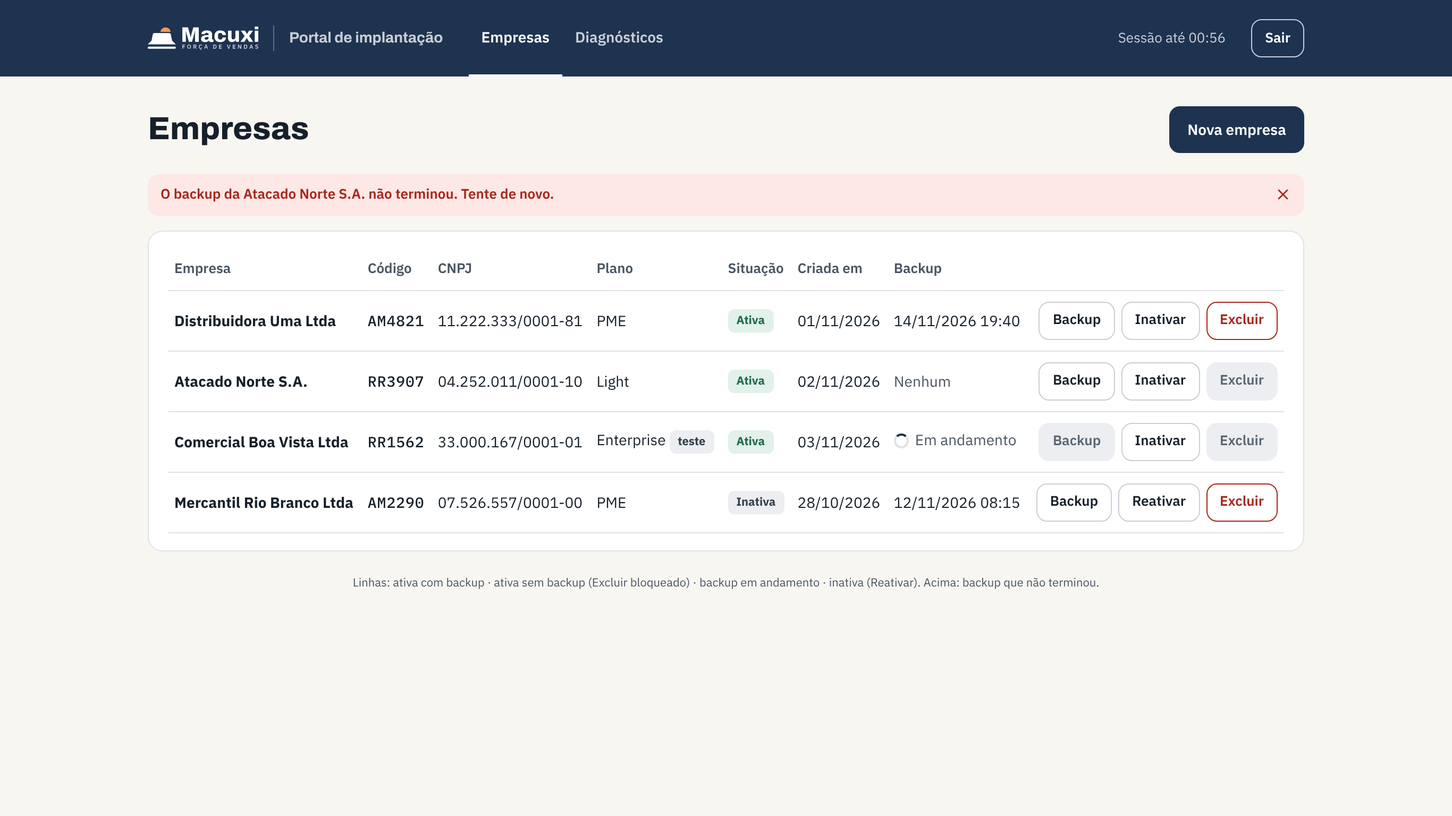
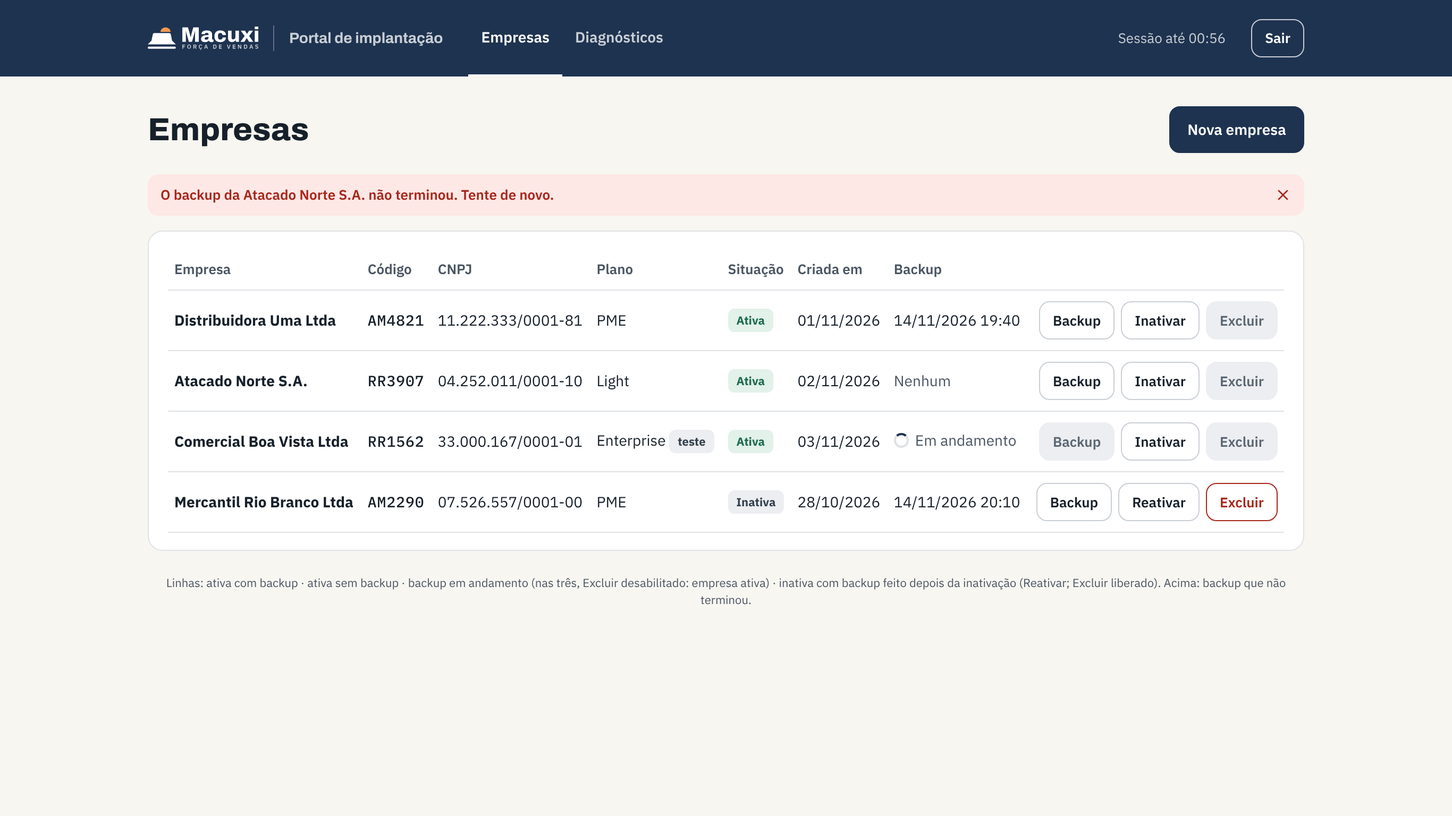
designer-ux — Empresas do portal: decisões da ADR 0052 na spec e kit do Excluir
Spec portal-config-enxuto §15 aprovada (R-20261114-202000-alexandre, 14/11/2026):
§15.5 cita a ADR 0052 em vez das premissas; Excluir desabilitado na empresa
ativa e liberado por acoes.exclusao_bloqueada; diálogo de Excluir com o campo
"Sua senha" e as mensagens de recusa; testID empresa-excluir.senha. PNG 02b e
02c regerados (02c em 1366 x 912).

packages/ui (web): Button variant="danger-secondary"; ConfirmarDigitando e
codigoConfere (confirmar.tsx, com testes); hover do danger em danger/90.

Agente: designer-ux

Claude-Session: https://claude.ai/code/session_0157qAhjwgDn1HL5o6yDAFZQ

diff --git a/packages/ui/src/web/confirmar.test.ts b/packages/ui/src/web/confirmar.test.ts
@@ -1,0 +1,99 @@
+import { describe, expect, it } from 'vitest';
+import { ConfirmarDigitando, codigoConfere, rotuloConfirmarDigitando } from './confirmar';
+import { Button } from './ui';
+
+// sem react-dom: os componentes (sem hooks) são chamados como função e a árvore é percorrida
+type No = { type: unknown; props: Record<string, unknown> & { children?: unknown } };
+
+function nos(x: unknown): No[] {
+  if (Array.isArray(x)) return x.flatMap(nos);
+  if (!x || typeof x !== 'object' || !('props' in x)) return [];
+  const n = x as No;
+  return [n, ...nos(n.props.children)];
+}
+
+function texto(x: unknown): string {
+  if (typeof x === 'string' || typeof x === 'number') return String(x);
+  if (Array.isArray(x)) return x.map(texto).join('');
+  if (!x || typeof x !== 'object' || !('props' in x)) return '';
+  return texto((x as No).props.children);
+}
+
+const classes = (x: unknown) => String((x as No).props.className).split(/\s+/);
+
+describe('codigoConfere (portal-config-enxuto §15.2)', () => {
+  it('libera só quando o digitado bate com o código', () => {
+    expect(codigoConfere('AM4821', 'AM4821')).toBe(true);
+    expect(codigoConfere('AM482', 'AM4821')).toBe(false);
+    expect(codigoConfere('AM48210', 'AM4821')).toBe(false);
+    expect(codigoConfere('RR4821', 'AM4821')).toBe(false);
+  });
+
+  it('sem diferença de maiúsculas e de espaços nas pontas', () => {
+    expect(codigoConfere('am4821', 'AM4821')).toBe(true);
+    expect(codigoConfere('  Am4821 ', 'AM4821')).toBe(true);
+    expect(codigoConfere('AM 4821', 'AM4821')).toBe(false);
+  });
+
+  it('vazio nunca confere, nem com código esperado vazio', () => {
+    expect(codigoConfere('', 'AM4821')).toBe(false);
+    expect(codigoConfere('   ', '')).toBe(false);
+    expect(codigoConfere('', '')).toBe(false);
+  });
+});
+
+describe('ConfirmarDigitando (web)', () => {
+  const arvore = (valor: string) => nos(ConfirmarDigitando({ id: 'excluir-codigo', codigo: 'AM4821', valor, onChange: () => undefined, testID: 'empresa-excluir.codigo' }));
+
+  it('rótulo "Digite {código} para confirmar", ligado ao campo', () => {
+    const a = arvore('');
+    const label = a.find((n) => n.type === 'label');
+    expect(texto(label)).toBe('Digite AM4821 para confirmar');
+    expect(rotuloConfirmarDigitando('AM4821')).toBe('Digite AM4821 para confirmar');
+    expect(label?.props.htmlFor).toBe('excluir-codigo');
+    const campo = a.find((n) => n.type === 'input');
+    expect(campo?.props.id).toBe('excluir-codigo');
+    expect(campo?.props['data-testid']).toBe('empresa-excluir.codigo');
+  });
+
+  it('campo sem corretor, sem preenchimento automático, com foco ao abrir e em fonte mono', () => {
+    const campo = arvore('').find((n) => n.type === 'input');
+    expect(campo?.props.autoComplete).toBe('off');
+    expect(campo?.props.spellCheck).toBe(false);
+    expect(campo?.props.autoFocus).toBe(true);
+    expect(classes(campo)).toContain('font-mono');
+    // o código no rótulo também em mono
+    expect(arvore('').some((n) => n.type === 'span' && texto(n) === 'AM4821' && classes(n).includes('font-mono'))).toBe(true);
+  });
+
+  it('o estado do campo diz se confere (a tela usa codigoConfere para o botão)', () => {
+    expect(arvore('').find((n) => n.type === 'input')?.props['data-confere']).toBe('nao');
+    expect(arvore('am4821').find((n) => n.type === 'input')?.props['data-confere']).toBe('sim');
+    expect(arvore('am4821').find((n) => n.type === 'input')?.props.value).toBe('am4821');
+  });
+
+  it('código errado não mostra mensagem de erro (só o botão fica desabilitado)', () => {
+    const a = arvore('XX0000');
+    expect(a.some((n) => n.props.role === 'alert')).toBe(false);
+    expect(a.find((n) => n.type === 'input')?.props['aria-invalid']).toBeUndefined();
+  });
+});
+
+describe('Button variant="danger-secondary" (portal-config-enxuto §15.4)', () => {
+  it('contorno e texto em danger, fundo surface; hover em danger-soft com texto e borda danger', () => {
+    const c = classes(Button({ variant: 'danger-secondary', children: 'Excluir' }));
+    expect(c).toEqual(expect.arrayContaining(['border', 'border-danger', 'bg-surface', 'text-danger', 'hover:bg-danger-soft', 'hover:text-danger', 'hover:border-danger']));
+    expect(c).not.toContain('bg-danger');
+  });
+
+  it('desabilitado como o secundário: borda e texto apagados, sem hover vermelho', () => {
+    const c = classes(Button({ variant: 'danger-secondary', disabled: true, children: 'Excluir' }));
+    expect(c).toEqual(expect.arrayContaining(['disabled:border-field', 'disabled:text-disabled', 'disabled:hover:bg-surface']));
+  });
+
+  it('o danger cheio usa o token no hover (sem cor solta)', () => {
+    const c = classes(Button({ variant: 'danger', children: 'Excluir empresa' }));
+    expect(c).toContain('hover:bg-danger/90');
+    expect(c.some((x) => x.includes('#'))).toBe(false);
+  });
+});

diff --git a/docs/design/telas/portal-config-enxuto/depois-02b-empresas-acoes.html b/docs/design/telas/portal-config-enxuto/depois-02b-empresas-acoes.html
@@ -1,8 +1,8 @@
 <!doctype html><html lang="pt-BR"><head><meta charset="utf-8"><title>02b-empresas-acoes</title><link rel="stylesheet" href="portal.css"><style>body{width:1366px;min-height:768px}</style></head><body><div class="topo"><div class="in"><div class="marca"><img src="../../../marca/ativos/2026-11-12-v1/macuxi-logo-negativo-azul-noite.svg" alt="Macuxi Força de Vendas" width="104"><small>Portal de implantação</small></div><nav class="menu"><a class="ativo">Empresas</a><a class="">Diagnósticos</a></nav><span class="sessao">Sessão até 00:56</span><span class="btn s">Sair</span></div></div><main><div class="cabeca"><h1>Empresas</h1><span class="btn p">Nova empresa</span></div>
 <div class="aviso erro" style="margin-bottom:14px" role="alert"><span>O backup da Atacado Norte S.A. não terminou. Tente de novo.</span><svg width="16" height="16" viewBox="0 0 24 24" fill="none" stroke="currentColor" stroke-width="2" stroke-linecap="round" aria-label="Fechar" role="img"><path d="M6 6l12 12M18 6 6 18"/></svg></div>
 <div class="cartao"><table class="lista-acoes"><tr><th>Empresa</th><th>Código</th><th>CNPJ</th><th>Plano</th><th>Situação</th><th>Criada em</th><th>Backup</th><th><span style="position:absolute;left:-9999px">Ações</span></th></tr>
-<tr><td><b>Distribuidora Uma Ltda</b></td><td class="cod">AM4821</td><td class="cnpj">11.222.333/0001-81</td><td>PME</td><td><span class="selo">Ativa</span></td><td>01/11/2026</td><td><span class="bkp">14/11/2026 19:40</span></td><td class="col-acoes"><div class="acoes"><span class="btn s">Backup</span><span class="btn s">Inativar</span><span class="btn s perigo">Excluir</span></div></td></tr>
+<tr><td><b>Distribuidora Uma Ltda</b></td><td class="cod">AM4821</td><td class="cnpj">11.222.333/0001-81</td><td>PME</td><td><span class="selo">Ativa</span></td><td>01/11/2026</td><td><span class="bkp">14/11/2026 19:40</span></td><td class="col-acoes"><div class="acoes"><span class="btn s">Backup</span><span class="btn s">Inativar</span><span class="btn s off" aria-disabled="true">Excluir</span></div></td></tr>
 <tr><td><b>Atacado Norte S.A.</b></td><td class="cod">RR3907</td><td class="cnpj">04.252.011/0001-10</td><td>Light</td><td><span class="selo">Ativa</span></td><td>02/11/2026</td><td><span class="bkp nenhum">Nenhum</span></td><td class="col-acoes"><div class="acoes"><span class="btn s">Backup</span><span class="btn s">Inativar</span><span class="btn s off" aria-disabled="true">Excluir</span></div></td></tr>
 <tr><td><b>Comercial Boa Vista Ltda</b></td><td class="cod">RR1562</td><td class="cnpj">33.000.167/0001-01</td><td>Enterprise <span class="selo n">teste</span></td><td><span class="selo">Ativa</span></td><td>03/11/2026</td><td><span class="bkp andamento"><span class="giro"></span>Em andamento</span></td><td class="col-acoes"><div class="acoes"><span class="btn s off" aria-disabled="true">Backup</span><span class="btn s">Inativar</span><span class="btn s off" aria-disabled="true">Excluir</span></div></td></tr>
-<tr><td><b>Mercantil Rio Branco Ltda</b></td><td class="cod">AM2290</td><td class="cnpj">07.526.557/0001-00</td><td>PME</td><td><span class="selo n">Inativa</span></td><td>28/10/2026</td><td><span class="bkp">12/11/2026 08:15</span></td><td class="col-acoes"><div class="acoes"><span class="btn s">Backup</span><span class="btn s">Reativar</span><span class="btn s perigo">Excluir</span></div></td></tr>
-</table></div><div class="legenda-sim">Linhas: ativa com backup · ativa sem backup (Excluir bloqueado) · backup em andamento · inativa (Reativar). Acima: backup que não terminou.</div></main></body></html>
+<tr><td><b>Mercantil Rio Branco Ltda</b></td><td class="cod">AM2290</td><td class="cnpj">07.526.557/0001-00</td><td>PME</td><td><span class="selo n">Inativa</span></td><td>28/10/2026</td><td><span class="bkp">14/11/2026 20:10</span></td><td class="col-acoes"><div class="acoes"><span class="btn s">Backup</span><span class="btn s">Reativar</span><span class="btn s perigo">Excluir</span></div></td></tr>
+</table></div><div class="legenda-sim">Linhas: ativa com backup · ativa sem backup · backup em andamento (nas três, Excluir desabilitado: empresa ativa) · inativa com backup feito depois da inativação (Reativar; Excluir liberado). Acima: backup que não terminou.</div></main></body></html>

diff --git a/docs/design/telas/portal-config-enxuto/depois-02c-empresas-dialogos.html b/docs/design/telas/portal-config-enxuto/depois-02c-empresas-dialogos.html
@@ -1,5 +1,5 @@
-<!doctype html><html lang="pt-BR"><head><meta charset="utf-8"><title>02c-empresas-dialogos</title><link rel="stylesheet" href="portal.css"><style>body{width:1366px;min-height:768px;background:var(--ground)}</style></head><body><div class="topo"><div class="in"><div class="marca"><img src="../../../marca/ativos/2026-11-12-v1/macuxi-logo-negativo-azul-noite.svg" alt="Macuxi Força de Vendas" width="104"><small>Portal de implantação</small></div><nav class="menu"><a class="ativo">Empresas</a><a class="">Diagnósticos</a></nav><span class="sessao">Sessão até 00:56</span><span class="btn s">Sair</span></div></div><div class="prancha-dlg">
+<!doctype html><html lang="pt-BR"><head><meta charset="utf-8"><title>02c-empresas-dialogos</title><link rel="stylesheet" href="portal.css"><style>body{width:1366px;min-height:912px;background:var(--ground)}</style></head><body><div class="topo"><div class="in"><div class="marca"><img src="../../../marca/ativos/2026-11-12-v1/macuxi-logo-negativo-azul-noite.svg" alt="Macuxi Força de Vendas" width="104"><small>Portal de implantação</small></div><nav class="menu"><a class="ativo">Empresas</a><a class="">Diagnósticos</a></nav><span class="sessao">Sessão até 00:56</span><span class="btn s">Sair</span></div></div><div class="prancha-dlg">
 <div><div class="rot">1 · Inativar</div><div class="dlg-p" role="dialog" aria-label="Inativar Distribuidora Uma Ltda?"><h2>Inativar Distribuidora Uma Ltda?</h2><div class="corpo"><p>Todos os acessos ficam bloqueados.</p></div><div class="pe"><span class="btn">Cancelar</span><span class="btn perigo-cheio">Inativar</span></div></div></div>
-<div><div class="rot">2 · Excluir, antes de digitar</div><div class="dlg-p" role="dialog" aria-label="Excluir Distribuidora Uma Ltda?"><h2>Excluir Distribuidora Uma Ltda?</h2><div class="corpo"><div>Último backup:&nbsp;<b>14/11/2026 19:40</b></div><p>Não dá para desfazer.</p><div class="campo"><label>Digite <span class="cod">AM4821</span> para confirmar</label><div class="inp cod foco"></div></div></div><div class="pe"><span class="btn">Cancelar</span><span class="btn off" aria-disabled="true">Excluir empresa</span></div></div></div>
-<div><div class="rot">3 · Excluir, código certo</div><div class="dlg-p" role="dialog" aria-label="Excluir Distribuidora Uma Ltda?"><h2>Excluir Distribuidora Uma Ltda?</h2><div class="corpo"><div>Último backup:&nbsp;<b>14/11/2026 19:40</b></div><p>Não dá para desfazer.</p><div class="campo"><label>Digite <span class="cod">AM4821</span> para confirmar</label><div class="inp cod foco">AM4821</div></div></div><div class="pe"><span class="btn">Cancelar</span><span class="btn perigo-cheio">Excluir empresa</span></div></div></div>
+<div><div class="rot">2 · Excluir, antes de digitar</div><div class="dlg-p" role="dialog" aria-label="Excluir Mercantil Rio Branco Ltda?"><h2>Excluir Mercantil Rio Branco Ltda?</h2><div class="corpo"><div>Último backup:&nbsp;<b>14/11/2026 20:10</b></div><p>Não dá para desfazer.</p><div class="campo"><label>Digite <span class="cod">AM2290</span> para confirmar</label><div class="inp cod foco"></div></div><div class="campo"><label>Sua senha</label><div class="inp"></div></div></div><div class="pe"><span class="btn">Cancelar</span><span class="btn off" aria-disabled="true">Excluir empresa</span></div></div></div>
+<div><div class="rot">3 · Excluir, código certo e senha</div><div class="dlg-p" role="dialog" aria-label="Excluir Mercantil Rio Branco Ltda?"><h2>Excluir Mercantil Rio Branco Ltda?</h2><div class="corpo"><div>Último backup:&nbsp;<b>14/11/2026 20:10</b></div><p>Não dá para desfazer.</p><div class="campo"><label>Digite <span class="cod">AM2290</span> para confirmar</label><div class="inp cod">AM2290</div></div><div class="campo"><label>Sua senha</label><div class="inp foco">••••••••••</div></div></div><div class="pe"><span class="btn">Cancelar</span><span class="btn perigo-cheio">Excluir empresa</span></div></div></div>
 </div></body></html>

diff --git a/packages/ui/src/web/confirmar.tsx b/packages/ui/src/web/confirmar.tsx
@@ -1,0 +1,62 @@
+/**
+ * Confirmação por digitação, para ações sem volta (ex.: excluir a empresa no portal). Spec:
+ * docs/design/telas/portal-config-enxuto.md §15.2 e §15.4; regras da exclusão na ADR 0052 §3.
+ *
+ * Rótulo "Digite {código} para confirmar" + campo. O componente é controlado e sem hooks (o teste o chama como função):
+ * a tela guarda o valor e habilita o botão de confirmar com `codigoConfere(valor, codigo)`. Código errado não mostra erro;
+ * só o botão segue desabilitado.
+ */
+import type { ChangeEvent } from 'react';
+import { CLASSES_DESTAQUE } from './cores';
+import { cx } from './ui';
+
+/** Confere o digitado com o código, sem diferença de maiúsculas e de espaços nas pontas. Vazio nunca confere. */
+export function codigoConfere(digitado: string, codigo: string): boolean {
+  const a = digitado.trim().toUpperCase();
+  return a.length > 0 && a === codigo.trim().toUpperCase();
+}
+
+export function rotuloConfirmarDigitando(codigo: string): string {
+  return `Digite ${codigo} para confirmar`;
+}
+
+export function ConfirmarDigitando({
+  id,
+  codigo,
+  valor,
+  onChange,
+  testID,
+  disabled,
+}: {
+  id: string;
+  codigo: string;
+  valor: string;
+  onChange: (valor: string) => void;
+  testID?: string;
+  disabled?: boolean;
+}) {
+  return (
+    <div className="flex flex-col gap-1.5">
+      <label htmlFor={id} className="text-[13px] font-semibold text-ink">
+        Digite <span className="font-mono font-medium">{codigo}</span> para confirmar
+      </label>
+      <input
+        id={id}
+        type="text"
+        value={valor}
+        onChange={(e: ChangeEvent<HTMLInputElement>) => onChange(e.target.value)}
+        autoFocus
+        autoComplete="off"
+        autoCapitalize="characters"
+        spellCheck={false}
+        disabled={disabled}
+        data-testid={testID}
+        data-confere={codigoConfere(valor, codigo) ? 'sim' : 'nao'}
+        className={cx(
+          'h-[44px] w-full rounded-[10px] border border-field bg-surface px-3 font-mono text-[15px] tracking-[1px] text-ink disabled:opacity-60',
+          CLASSES_DESTAQUE.foco,
+        )}
+      />
+    </div>
+  );
+}

diff --git a/packages/ui/src/web/ui.tsx b/packages/ui/src/web/ui.tsx
@@ -134,7 +134,7 @@ export function Bar({ pct, colorClass, min = 80 }: { pct: number; colorClass: st
 
 /* ---------- botões ---------- */
 
-type Variant = 'primary' | 'secondary' | 'link' | 'danger';
+type Variant = 'primary' | 'secondary' | 'link' | 'danger' | 'danger-secondary';
 
 export function Button({ variant = 'secondary', className, size = 'md', ...rest }: ButtonHTMLAttributes<HTMLButtonElement> & { variant?: Variant; size?: 'sm' | 'md' }) {
   const base = 'inline-flex items-center justify-center gap-1.5 font-semibold transition-colors disabled:cursor-not-allowed focus-visible:outline-2 focus-visible:outline-offset-2 focus-visible:outline-accent';
@@ -143,7 +143,10 @@ export function Button({ variant = 'secondary', className, size = 'md', ...rest 
     // T-0172 (marca v1): o principal é Azul noite (accent), texto branco 12,77:1
     primary: 'bg-accent text-white hover:bg-accent/90 disabled:bg-disabled',
     secondary: 'border border-field bg-surface text-ink hover:bg-ground disabled:text-disabled',
-    danger: 'bg-danger text-white hover:bg-[#8d1f16] disabled:bg-disabled',
+    danger: 'bg-danger text-white hover:bg-danger/90 disabled:bg-disabled',
+    // Perigo em linha de tabela (ex.: Excluir na lista de Empresas): contorno; o cheio fica no diálogo. Spec portal-config-enxuto §15.4.
+    'danger-secondary':
+      'border border-danger bg-surface text-danger hover:border-danger hover:bg-danger-soft hover:text-danger disabled:border-field disabled:text-disabled disabled:hover:bg-surface',
     // Link em accent-ink (Azul noite, 11,82:1 no Pérola). Hover: sublinhado.
     link: 'h-auto px-0 text-accent-ink underline-offset-2 hover:underline disabled:text-disabled disabled:no-underline',
   };

diff --git a/packages/ui/src/web/index.ts b/packages/ui/src/web/index.ts
@@ -18,3 +18,5 @@ export * from './permissoes';
 export * from './historico';
 // MC-0042: módulos adicionais do plano (nome e ícone)
 export * from './adicionais';
+// Portal config §15: confirmação por digitação (ações sem volta)
+export * from './confirmar';

diff --git a/docs/design/telas/portal-config-enxuto.md b/docs/design/telas/portal-config-enxuto.md
@@ -428,7 +428,9 @@ Conta das frases: 59 (placares anteriores, §14) + 3 frases curtas que ficavam n
 ## 15. Adendo — Backup, Inativar e Excluir na lista de Empresas
 > 2026-11-14 ~20h (Manaus) · designer-ux · pedido do dono do produto R-20261114-195600: "Nao vi a opcao de inativar a empresa no config. Ajuste para ter essa opção na lista de empresa, junto com o botao backup e excluir. A inativação desabilita todos os acessos mas nao exclui nada. O botao excluir fica do lado de inativar e so pode ser usado apos ser feito o backup da empresa." Só o time Macuxi vê a lista (§3) e as ações.
 
-Simulações (1366 × 768, escala 2, `portal.css`): `depois-02b-empresas-acoes` (lista com os estados) e `depois-02c-empresas-dialogos` (diálogos).
+**Situação:** Aprovado pelo Alexandre em 14/11/2026 (R-20261114-202000-alexandre: "1 aprovado / 2 aprovado / 3 aprovado"). Regras de negócio (quando o Excluir libera, retenção do backup, código não reaproveitado, sem download): **ADR 0052** (§2.8, §3.1, §3.2 e §3.4; RN-PLA-07 a RN-PLA-11), que esta seção não repete.
+
+Simulações (escala 2, `portal.css`): `depois-02b-empresas-acoes` (lista com os estados, 1366 × 768) e `depois-02c-empresas-dialogos` (diálogos, 1366 × 912, para caber o Excluir com a senha).
 
 | Lista com os estados | Diálogos |
 |---|---|
@@ -439,13 +441,13 @@ Tabela **Empresa · Código · CNPJ · Plano · Situação · Criada em · Backu
 
 | Estado da linha | Situação | Backup | Ações |
 |---|---|---|---|
-| Ativa, com backup | selo **"Ativa"** | **"14/11/2026 19:40"** (`formatDateTimeFull`, fuso do tenant) | Backup · Inativar · Excluir |
+| Ativa, com backup | selo **"Ativa"** | **"14/11/2026 19:40"** (`formatDateTimeFull`, fuso do tenant) | Backup · Inativar · Excluir **desabilitado** |
 | Ativa, sem backup | selo **"Ativa"** | **"Nenhum"** (`ink-2`) | Backup · Inativar · Excluir **desabilitado** |
 | Backup em andamento | igual | giro + **"Em andamento"** | Backup e Excluir **desabilitados** · Inativar |
-| Inativa | selo neutro **"Inativa"** | último backup ou "Nenhum" | Backup · **Reativar** · Excluir (se houver backup) |
+| Inativa | selo neutro **"Inativa"** | último backup ou "Nenhum" | Backup · **Reativar** · Excluir (liberado só nas condições da ADR 0052 §3.1: `acoes.exclusao_bloqueada` nulo) |
 
 - **Backup** não pede confirmação (não muda nada da empresa): o clique já põe a linha em "Em andamento"; ao terminar, a célula mostra a data e a hora. Sem aviso de sucesso: a data na célula basta (uma informação, um lugar).
-- **Excluir desabilitado** sem backup ou com backup em andamento; o motivo está na coluna Backup da mesma linha ("Nenhum"/"Em andamento"), sem dica nem texto extra. O botão leva `aria-disabled` + `aria-describedby` apontando para a célula Backup (o leitor de tela ouve o motivo).
+- **Excluir desabilitado** enquanto `acoes.exclusao_bloqueada` não for nulo (ADR 0052 §3.1). O motivo está na própria linha, sem dica nem texto extra: o selo "Ativa" (empresa ativa) ou a célula Backup ("Nenhum", "Em andamento" ou a data de um backup que não serve). O botão leva `aria-disabled` + `aria-describedby` apontando para a célula da Situação (empresa ativa) ou do Backup (inativa), para o leitor de tela ouvir o motivo.
 - **Backup que não terminou:** aviso de erro fechável no topo da lista (`Notice tone="danger"`), **"O backup da {empresa} não terminou. Tente de novo."**; a célula volta ao backup anterior (ou "Nenhum").
 - **Reativar** não pede confirmação, como o Backup: o botão mostra "Reativando…" (desabilitado) e, ao terminar, o selo vira "Ativa" e o botão volta a "Inativar". Motivo: reativar não apaga nem bloqueia nada e se desfaz com um clique em "Inativar"; o diálogo só repetiria o título e custaria um toque a mais. Se a API falhar, a linha fica como estava e aparece o `ErrorBlock` padrão no topo da lista.
 - **Inativar e reativar sem aviso de sucesso:** o selo da Situação já mostra o resultado (uma informação, um lugar).
@@ -455,28 +457,27 @@ Tabela **Empresa · Código · CNPJ · Plano · Situação · Criada em · Backu
 | Diálogo | Título | Corpo | Rodapé |
 |---|---|---|---|
 | Inativar | **"Inativar {empresa}?"** | **"Todos os acessos ficam bloqueados."** | "Cancelar" · **"Inativar"** (`variant="danger"`) |
-| Excluir | **"Excluir {empresa}?"** | **"Último backup: 14/11/2026 19:40"** · **"Não dá para desfazer."** · campo **"Digite AM4821 para confirmar"** (código em IBM Plex Mono, foco ao abrir) | "Cancelar" · **"Excluir empresa"** (`variant="danger"`), desabilitado até o código digitado bater (sem diferença de maiúsculas e de espaços nas pontas) |
+| Excluir | **"Excluir {empresa}?"** | **"Último backup: 14/11/2026 20:10"** · **"Não dá para desfazer."** · `ConfirmarDigitando` **"Digite AM2290 para confirmar"** (código em IBM Plex Mono, foco ao abrir) · campo **"Sua senha"** (`type="password"`, `autocomplete="current-password"`) | "Cancelar" · **"Excluir empresa"** (`variant="danger"`), desabilitado até o código digitado bater (sem diferença de maiúsculas e de espaços nas pontas) e a senha estar preenchida |
 
 - Confirmação pelo **código** (6 caracteres, único) e não pelo nome: mais curto de digitar e sem dúvida de acento ou "Ltda".
 - Código errado: o botão só fica desabilitado; sem mensagem de erro.
 - Esc e "Cancelar" fecham sem gravar. Enquanto grava: "Inativando…"/"Excluindo…", desabilitado.
-- Erro da API: uma linha embaixo do corpo, em `danger`: **"Faça o backup antes de excluir."** (sem backup concluído) ou o `ErrorBlock` padrão.
+- A senha vai só no corpo do pedido (ADR 0052 §3.2) e sai do campo ao fechar o diálogo.
+- Erro da API: uma linha embaixo do corpo, em `danger`: **"Senha incorreta."** (`REAUTENTICACAO_FALHOU`; o campo da senha se esvazia e recebe o foco), **"Faça um novo backup antes de excluir."** (`EXCLUSAO_SEM_BACKUP`, `EXCLUSAO_BACKUP_ANTES_DA_INATIVACAO`, `EXCLUSAO_BACKUP_VENCIDO`), **"Inative a empresa antes de excluir."** (`EXCLUSAO_EMPRESA_ATIVA`) ou o `ErrorBlock` padrão.
 
 ### 15.3 Para o engenheiro-apps
 - Tela em `apps/web/app/config/**` (lista de Empresas); modo falso (`lib/portal-falso.ts`) com os 4 estados da simulação.
-- **testIDs:** `empresas.linha-<codigo>`, `empresas.situacao-<codigo>`, `empresas.backup-data-<codigo>` (`data-estado` = `nenhum|andamento|pronto`), `empresas.backup-<codigo>`, `empresas.inativar-<codigo>`, `empresas.reativar-<codigo>`, `empresas.excluir-<codigo>`, `empresa-acao.dialogo`, `empresa-acao.cancelar`, `empresa-acao.confirmar`, `empresa-excluir.codigo`, `empresa-acao.erro`.
-- **Contratos e rotas (engenheiro-software/modulo-core):** iniciar o backup e ler o estado (`nenhum|andamento|pronto|falhou` + `concluido_em` em UTC); inativar/reativar (a inativação bloqueia todos os acessos, inclusive sessões abertas, sem apagar dado); excluir com o código no corpo e **409 `SEM_BACKUP`** sem backup concluído (a API revalida). Situação na lista: `ativa|inativa`.
+- **testIDs:** `empresas.linha-<codigo>`, `empresas.situacao-<codigo>`, `empresas.backup-data-<codigo>` (`data-estado` = `nenhum|andamento|pronto`), `empresas.backup-<codigo>`, `empresas.inativar-<codigo>`, `empresas.reativar-<codigo>`, `empresas.excluir-<codigo>`, `empresa-acao.dialogo`, `empresa-acao.cancelar`, `empresa-acao.confirmar`, `empresa-excluir.codigo`, `empresa-excluir.senha`, `empresa-acao.erro`.
+- **Contratos e rotas:** os da ADR 0052 §4 (`packages/platform-sdk/src/empresa-acoes.ts`): `acoes` no item da lista, `ExcluirEmpresaSchema` com `codigo_confirmacao` e `senha`, recusas do §3.1 e §3.2; rótulo da situação por `ROTULO_STATUS_EMPRESA`.
 
-### 15.4 Componentes que faltam em `packages/ui`
-- **`Button variant="danger-secondary"`** (borda e texto `danger` `#A8261B`, fundo `surface`; **hover** com fundo `danger-soft` `#FDE8E6`, texto e borda `#A8261B`; desabilitado como o `.btn.off`, MC-0041): o `danger` cheio em toda linha pesa demais na tabela; o cheio fica só no diálogo. Entra no kit pelo designer-ux (`packages/ui/src/web/ui.tsx`) no lote da implementação.
-- **Confirmação por digitação** (`ConfirmarDigitando`: rótulo "Digite {código} para confirmar" + campo + estado do botão): padrão para ações sem volta; entra no kit no mesmo lote.
-- **No mesmo lote** (observação da marca, 14/11): o hover do `danger` cheio em `packages/ui/src/web/ui.tsx:146` troca `hover:bg-[#8d1f16]` (cor solta, fora dos tokens) por `hover:bg-danger/90`.
-- O resto já existe: `Dialog`, `Badge` (`success` "Ativa", `neutral` "Inativa"), `Notice`, `Button` `sm`/`primary`/`danger`, `TableScroll`, `formatDateTimeFull`.
+### 15.4 Componentes de `packages/ui` (no kit desde 15/11)
+- **`Button variant="danger-secondary"`** (`ui.tsx`; borda e texto `danger` `#A8261B`, fundo `surface`; **hover** com fundo `danger-soft` `#FDE8E6`, texto e borda `#A8261B`; desabilitado como o secundário, MC-0041): o `danger` cheio em toda linha pesa demais na tabela; o cheio fica só no diálogo.
+- **`ConfirmarDigitando`** (`confirmar.tsx`; controlado: `id`, `codigo`, `valor`, `onChange`, `testID`): rótulo "Digite {código} para confirmar" + campo em IBM Plex Mono com foco ao abrir. A tela habilita o botão com `codigoConfere(valor, codigo)`. Padrão para ações sem volta. O campo "Sua senha" é um campo de senha comum ao lado dele.
+- O hover do `danger` cheio passou de `hover:bg-[#8d1f16]` (cor solta) para `hover:bg-danger/90` (observação da marca, 14/11).
+- Já existiam: `Dialog`, `Badge` (`success` "Ativa", `neutral` "Inativa"), `Notice`, `Button` `sm`/`primary`/`danger`, `TableScroll`, `formatDateTimeFull`.
 
-### 15.5 Premissas e perguntas ao dono do produto
-1. Qualquer backup concluído libera o Excluir (sem prazo). Pergunta: exigir backup feito depois da última inativação, ou das últimas 24 h?
-2. Excluir vale para empresa ativa ou inativa. Pergunta: exigir inativar antes de excluir?
-3. O backup fica guardado no servidor; a tela não oferece download. Pergunta: o time precisa baixar o arquivo?
+### 15.5 Decisões (14/11/2026)
+As três perguntas desta seção foram respondidas pela ADR 0052 e aprovadas pelo Alexandre (R-20261114-202000-alexandre). As regras ficam só na ADR: quando o Excluir libera (§3.1), a confirmação com código e senha (§3.2), a retenção do backup depois da exclusão (§2.8) e o código não reaproveitado (§3.4). Sem download do backup: a tela não tem esse botão.
 
 ### 15.6 Passada do corretor (A–F) e da marca — respostas
 > 2026-11-15 · designer-ux. Todos **aceitos**; nenhum recusado.

diff --git a/.coord/diario/designer-ux.md b/.coord/diario/designer-ux.md
@@ -118,3 +118,4 @@
 2026-11-14 — R-20261114-141500 — Dialog e Drawer do kit: Tab preso dentro do popup, foco inicial no Drawer; prints em 4 larguras em docs/design/prints-popups-2026-11-14
 2026-11-14 — R-20261114-195600 — Spec portal-config-enxuto §15: lista de Empresas com coluna Backup e ações Backup · Inativar/Reativar · Excluir (Excluir bloqueado sem backup), diálogos de Inativar, Reativar e Excluir (digitar o código); simulações depois-02b e depois-02c; faltam no kit Button danger-secondary e ConfirmarDigitando
 2026-11-15 — R-20261114-195600 — Empresas do portal config: corretor A–F aceitos (sem avisos de inativar/reativar, Reativar sem diálogo, só o selo na linha inativa, portal.css sem repetição) e hover do danger-secondary (marca); 02b e 02c regeradas.
+2026-11-15 — empresa-acoes — Spec portal-config-enxuto §15 aprovada (R-20261114-202000-alexandre), regras citadas da ADR 0052; Excluir com senha do super-admin; PNG 02b/02c regerados; kit web: Button danger-secondary, ConfirmarDigitando/codigoConfere, hover danger/90.
